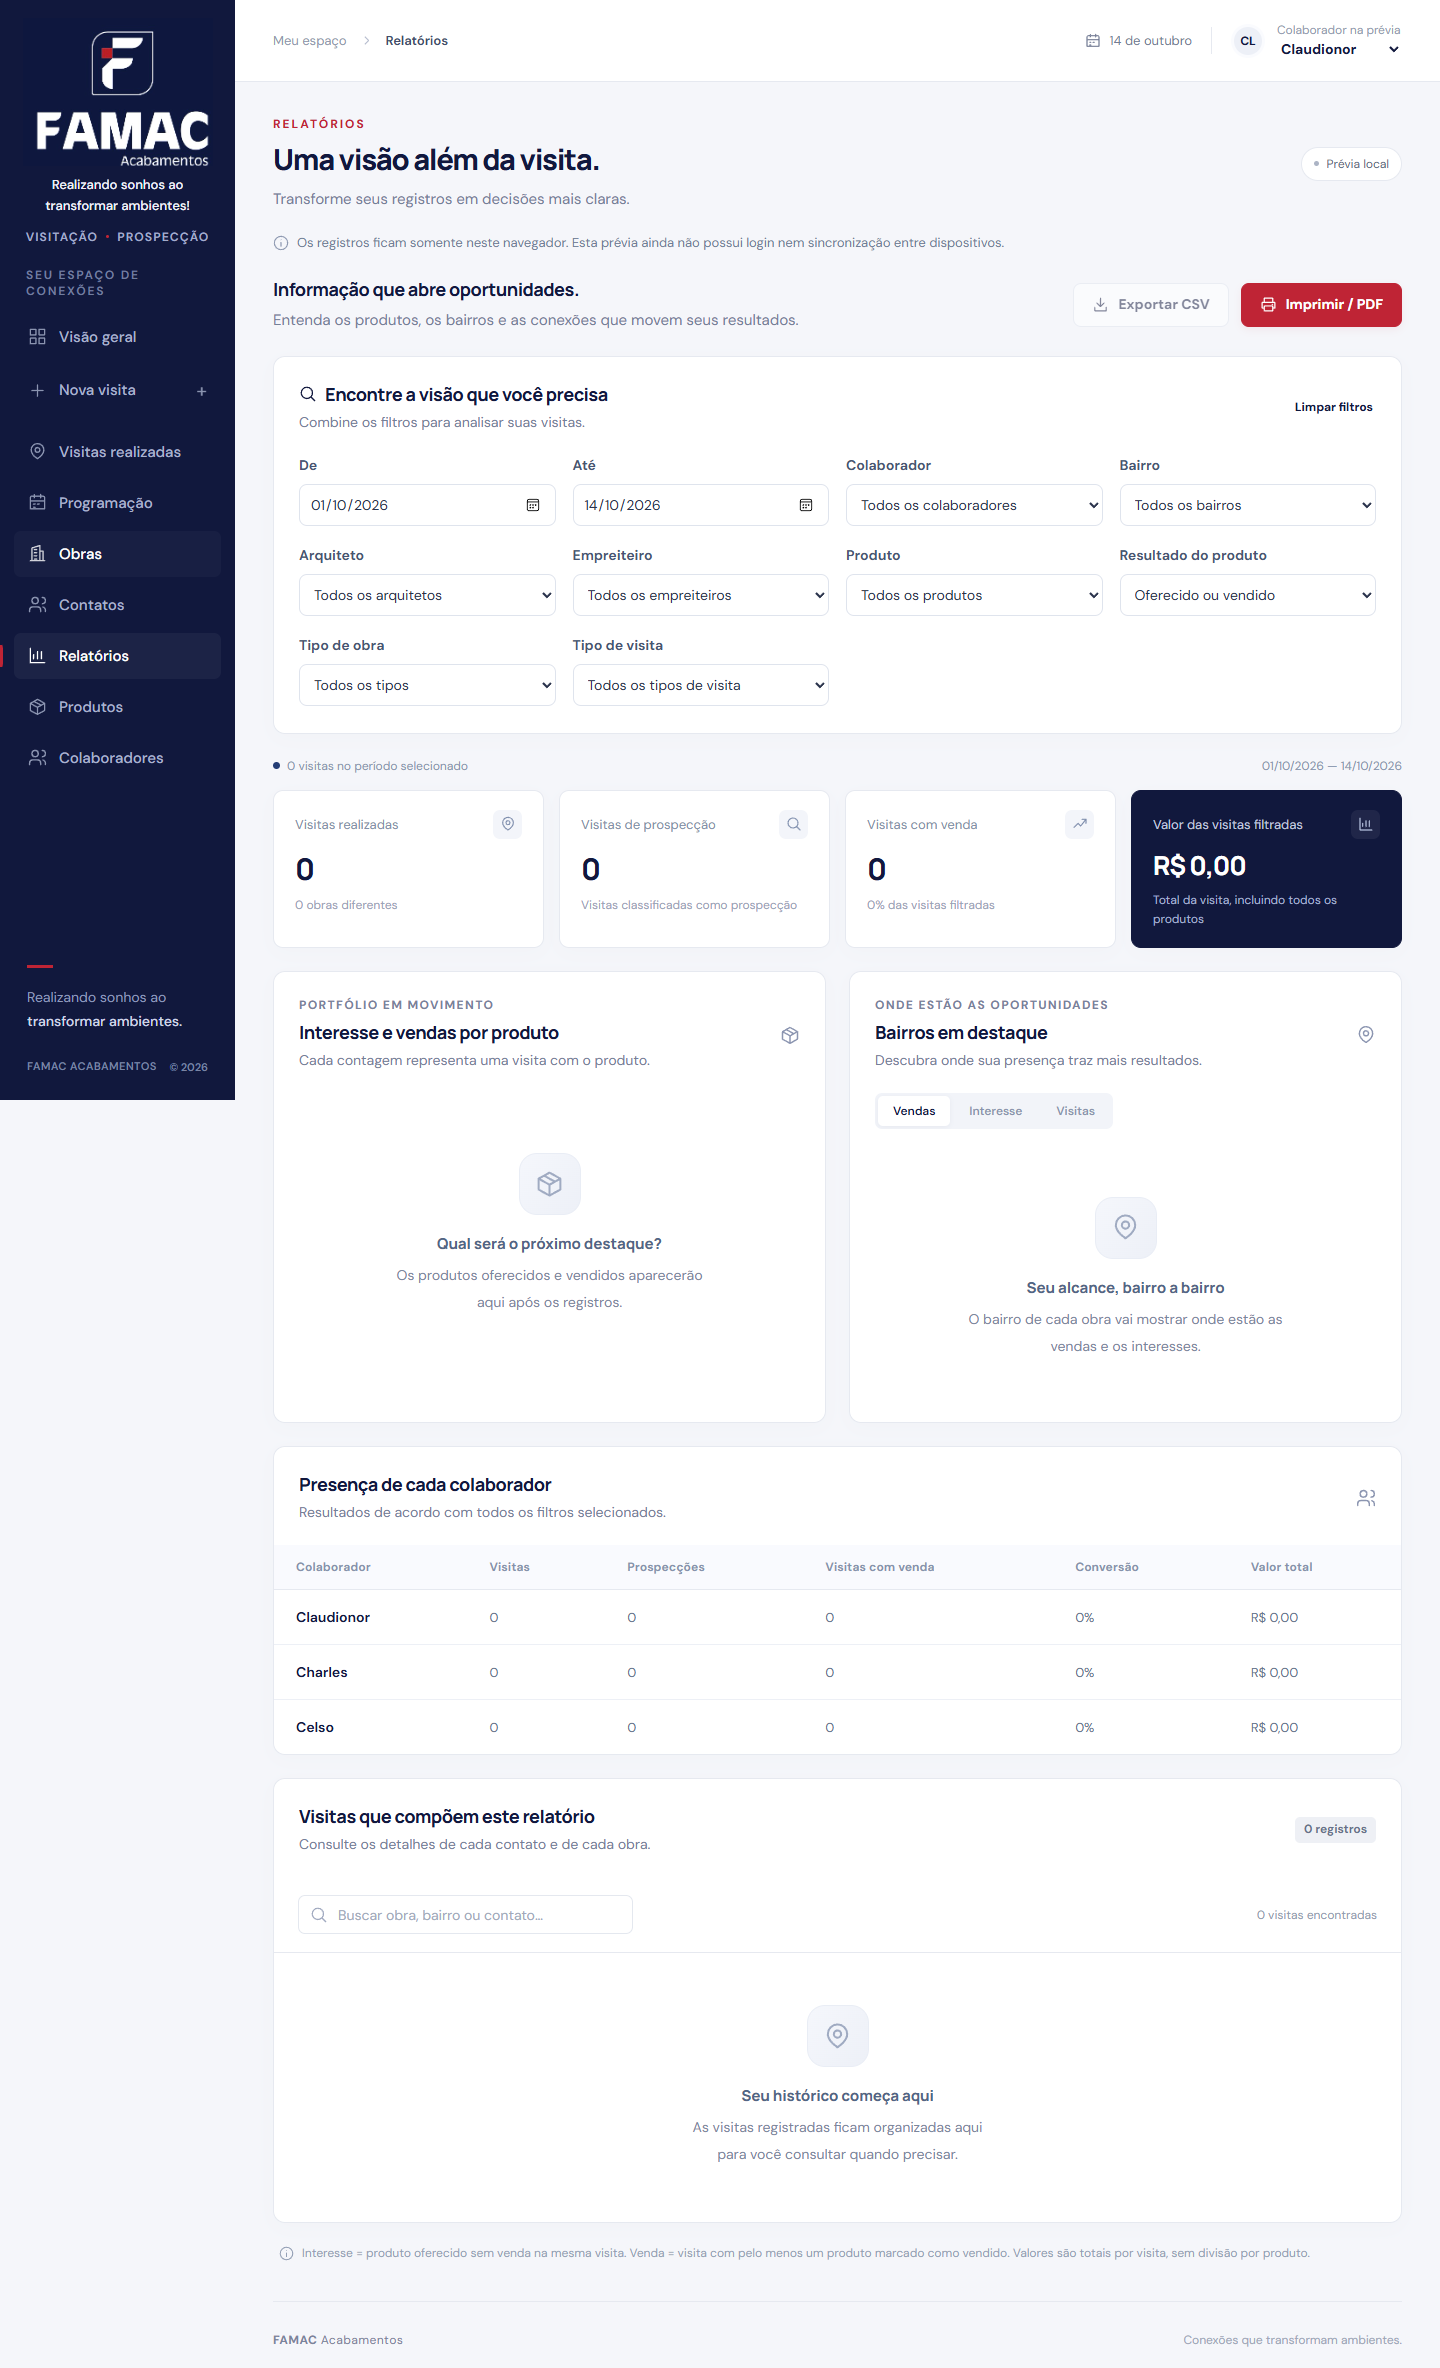
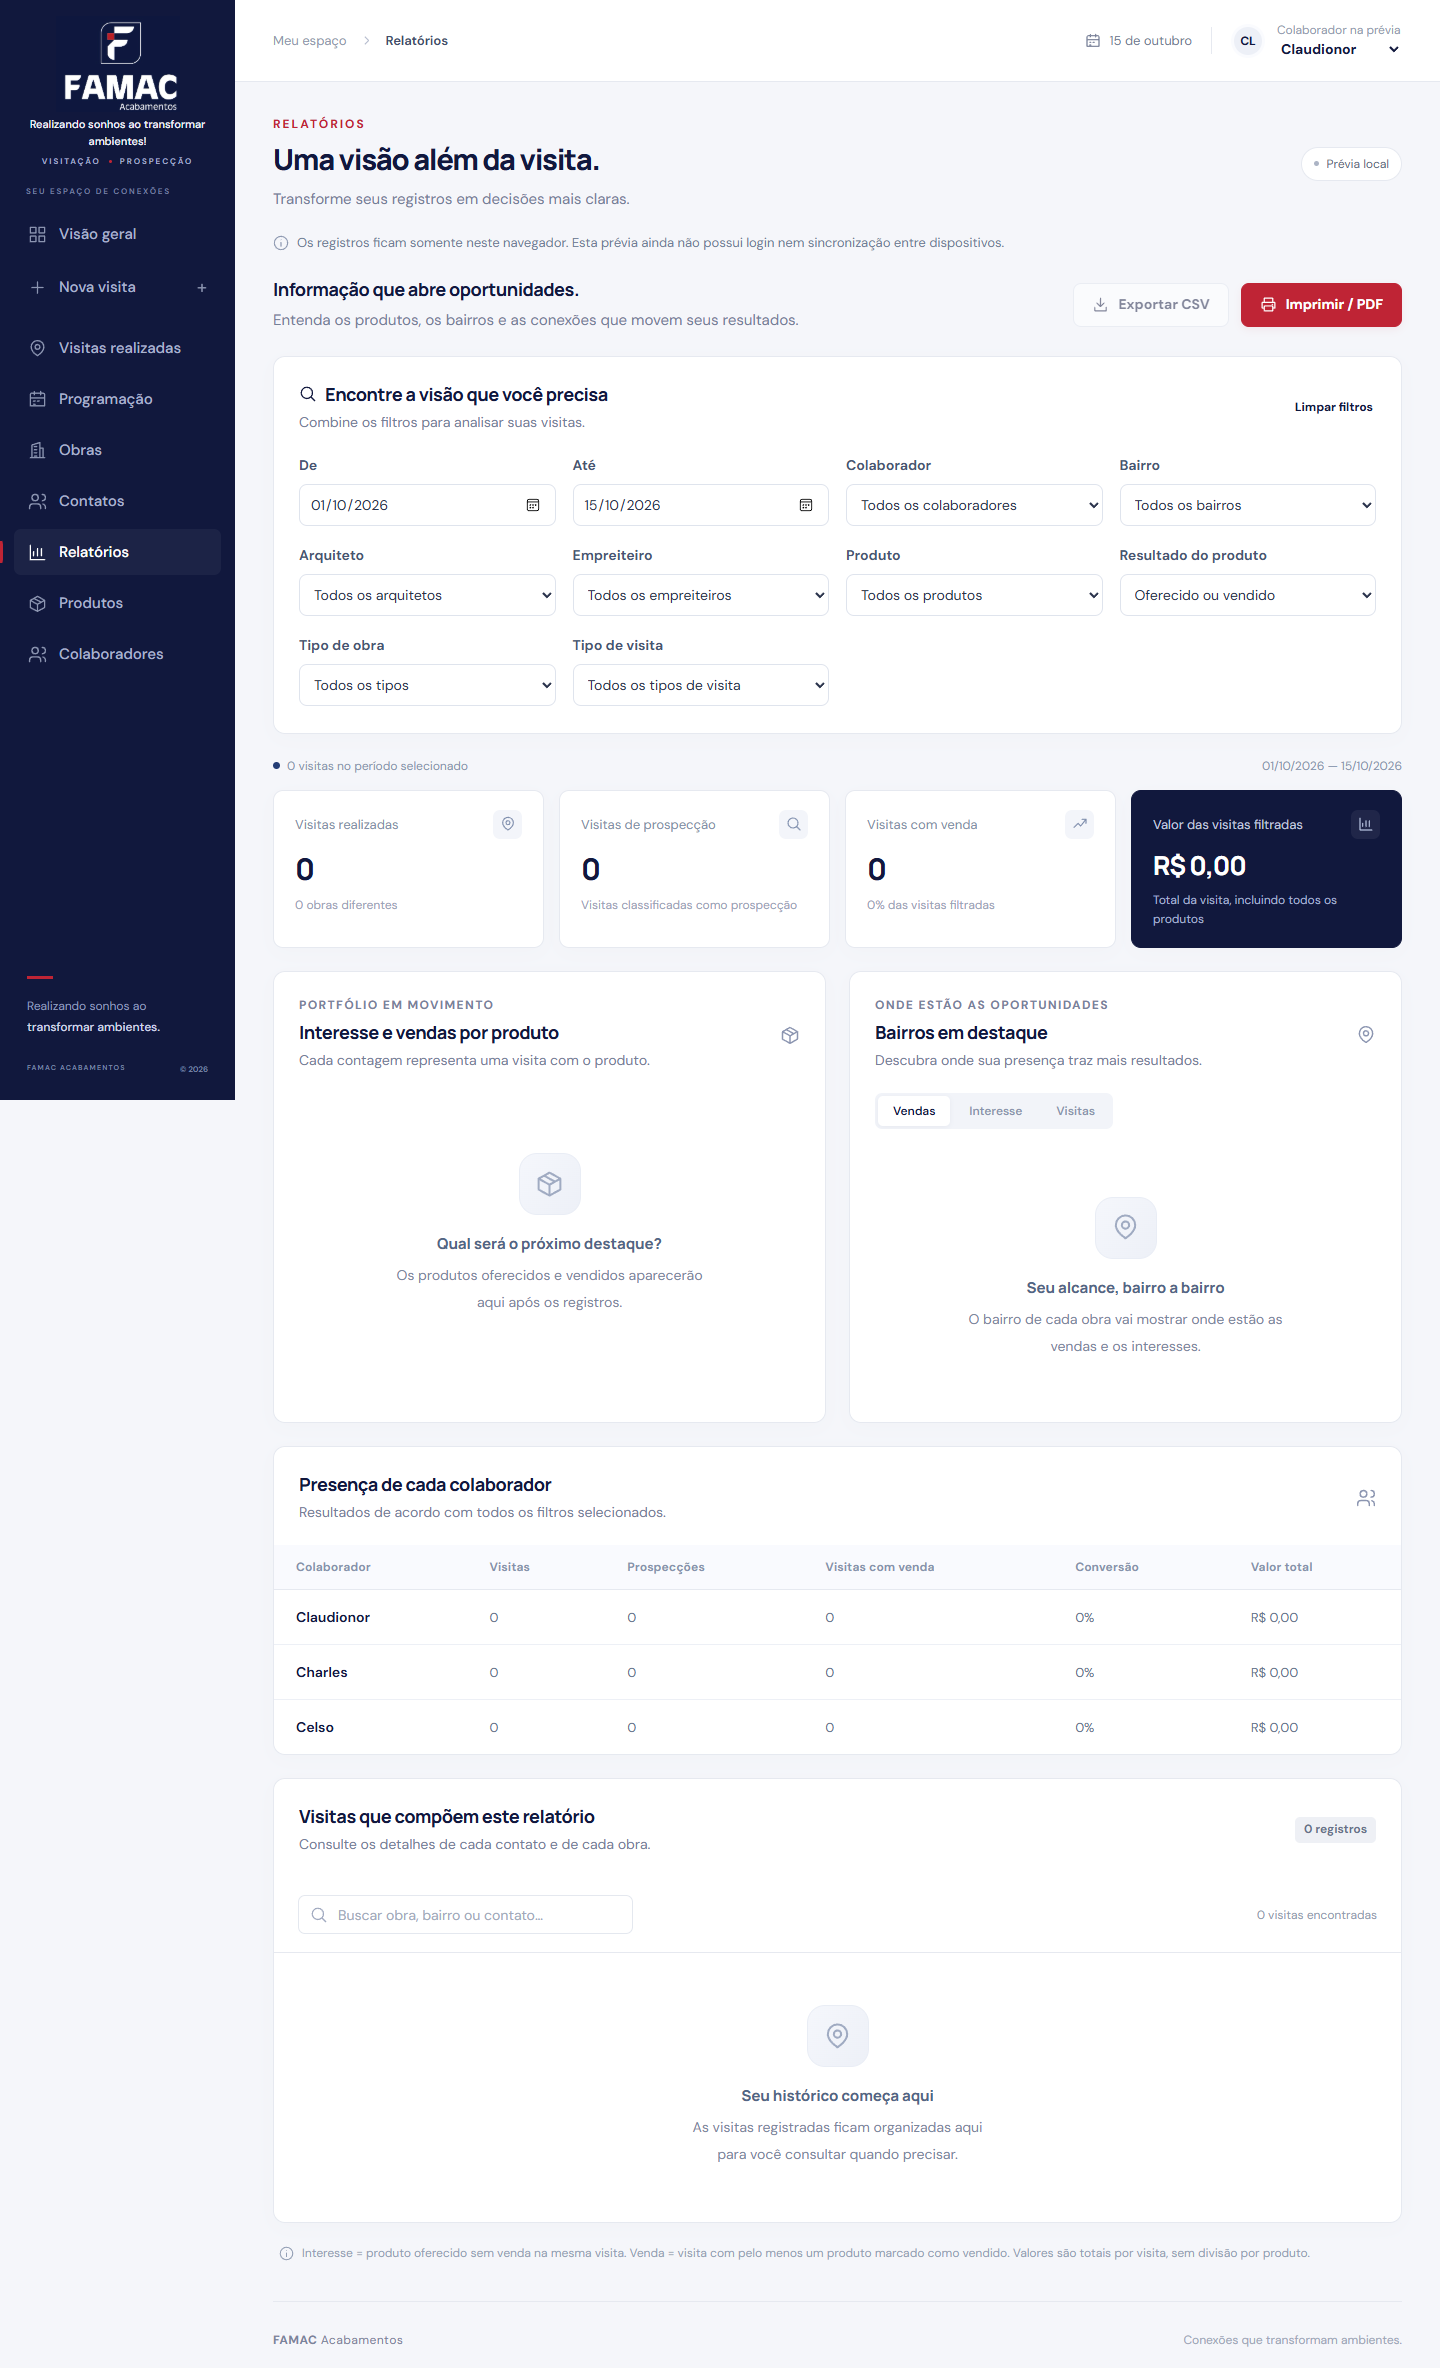
Compacta barra lateral mantendo tamanho dos nomes das abas

Changed region(s): [[0.0, 0.0, 0.1562, 0.2188], [0.0, 0.4062, 0.125, 0.4375], [0.0, 0.25, 0.0938, 0.2812]]

diff --git a/src/readability.css b/src/readability.css
@@ -1,12 +1,12 @@
 /* Leitura em campo: contraste, textos de apoio e alvos de toque. */
 .sidebar-brand {
-  padding: 18px 16px 22px;
+  padding: 16px 20px 20px;
 }
 .sidebar-logo-frame {
   position: relative;
-  width: 190px;
+  width: 124px;
   max-width: 100%;
-  height: 148px;
+  height: 96px;
   overflow: hidden;
   margin: auto;
 }
@@ -20,26 +20,36 @@
   transform: translateX(-50%);
 }
 .brand-tagline {
-  font-size: 13px;
+  font-size: 11px;
   font-weight: 500;
   font-style: italic;
-  line-height: 1.65;
+  line-height: 1.5;
   color: #f1f3fb;
-  max-width: 195px;
-  margin: 8px auto 0;
+  max-width: 180px;
+  margin: 4px auto 0;
 }
 .brand-system {
-  flex-wrap: wrap;
-  letter-spacing: 1.2px;
-  margin-top: 12px;
+  font-size: 8px;
+  flex-wrap: nowrap;
+  letter-spacing: 2px;
+  margin-top: 7px;
+}
+.sidebar .nav-group-label {
+  font-size: 8px;
+}
+.sidebar .nav-plus {
+  font-size: 18px;
+}
+.sidebar-bottom p {
+  font-size: 12px;
 }
 .sidebar-bottom > span:last-child {
-  font-size: 11px;
-  letter-spacing: 0.4px;
+  font-size: 7px;
+  letter-spacing: 1.2px;
   gap: 10px;
 }
 .sidebar-bottom small {
-  font-size: 11px;
+  font-size: 8px;
   white-space: nowrap;
 }
 .table-scroll {
@@ -65,7 +75,7 @@
   font-size: 15px;
 }
 .sidebar nav button small {
-  font-size: 12px;
+  font-size: 10px;
 }
 .summary-card dl > div,
 .summary-products span {
